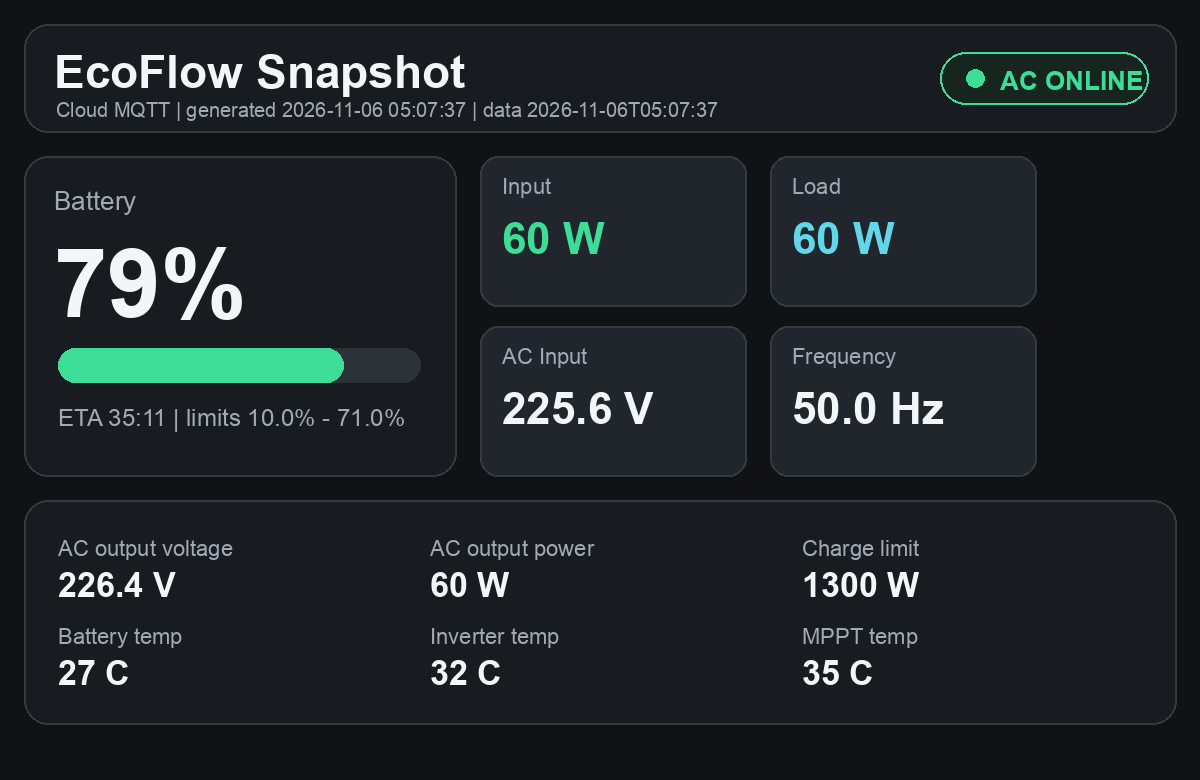
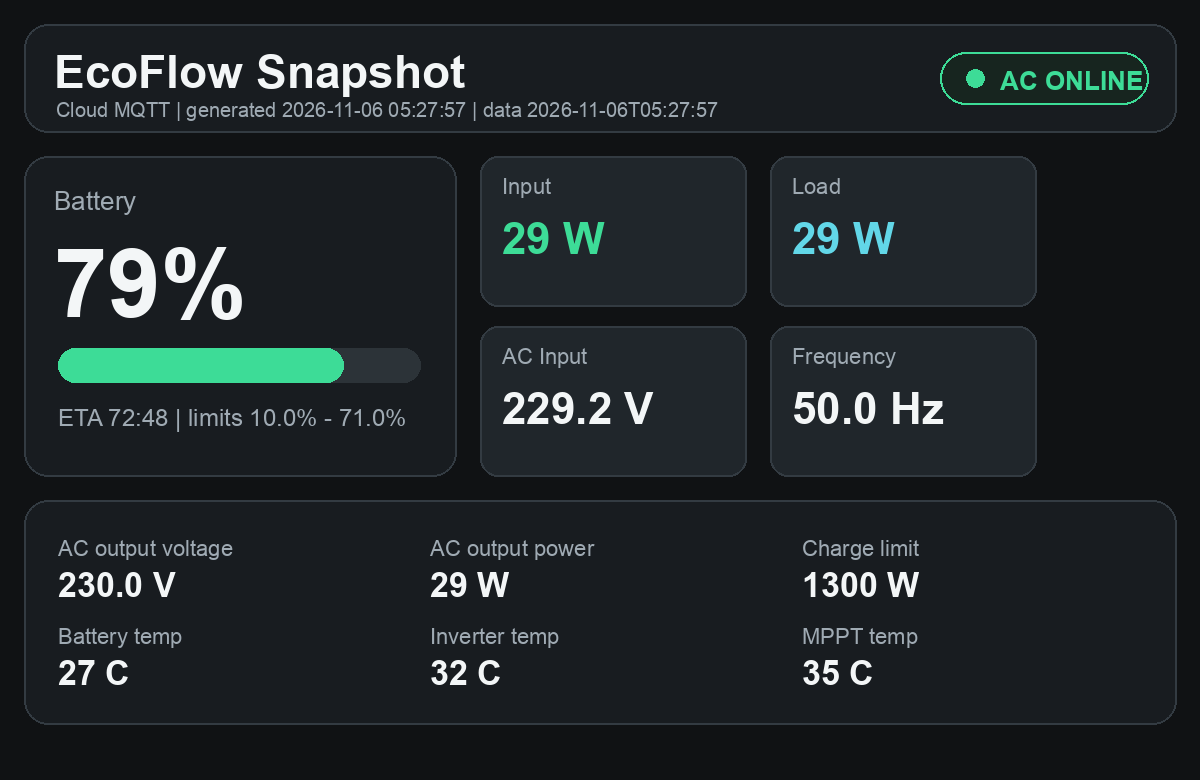
Update EcoFlow dashboard 2026-11-06 05:27:57

diff --git a/index.html b/index.html
@@ -177,7 +177,7 @@
   <header>
     <div>
       <h1>EcoFlow Snapshot</h1>
-      <div class="sub">Cloud MQTT · generated 2026-11-06T05:07:37 · data 2026-11-06T05:07:37</div>
+      <div class="sub">Cloud MQTT · generated 2026-11-06T05:27:57 · data 2026-11-06T05:27:57</div>
     </div>
     <div class="status online"><span class="dot"></span><span>AC online</span></div>
   </header>
@@ -189,20 +189,20 @@
       <h2>Battery</h2>
       <div class="value">79%</div>
       <div class="battery"><div class="fill"></div></div>
-      <div class="row"><span>ETA</span><span>35:11</span></div>
+      <div class="row"><span>ETA</span><span>72:48</span></div>
       <div class="row"><span>SOC limits</span><span>10.0% - 71.0%</span></div>
     </section>
     <section>
       <h2>AC</h2>
-      <div class="row"><span>Input voltage</span><span>225.6 V</span></div>
+      <div class="row"><span>Input voltage</span><span>229.2 V</span></div>
       <div class="row"><span>Input frequency</span><span>50.0 Hz</span></div>
-      <div class="row"><span>Output voltage</span><span>226.4 V</span></div>
+      <div class="row"><span>Output voltage</span><span>230.0 V</span></div>
     </section>
   </div>
 
   <div class="cards">
-    <div class="card"><span class="label">Input</span><span class="value">60 W</span></div>
-    <div class="card"><span class="label">Load</span><span class="value">60 W</span></div>
+    <div class="card"><span class="label">Input</span><span class="value">29 W</span></div>
+    <div class="card"><span class="label">Load</span><span class="value">29 W</span></div>
     <div class="card"><span class="label">Battery temp</span><span class="value">27°C</span></div>
     <div class="card"><span class="label">Inverter temp</span><span class="value">32°C</span></div>
   </div>
@@ -217,7 +217,7 @@
         <div class="daily-item"><span class="label">Зарядний ліміт</span><strong>1300 W</strong><small>пік входу 1347 W · 104% ліміту</small></div>
         <div class="daily-item"><span class="label">Заряджання</span><strong>4 хв</strong><small>останнє 05.11 12:00</small></div>
         <div class="daily-item"><span class="label">Розряджання</span><strong>0 сек</strong><small>--</small></div>
-        <div class="daily-item"><span class="label">Енергія вхід / вихід</span><strong>268 Wh / 178 Wh</strong><small>оцінка за sample-ами</small></div>
+        <div class="daily-item"><span class="label">Енергія вхід / вихід</span><strong>271 Wh / 181 Wh</strong><small>оцінка за sample-ами</small></div>
         <div class="daily-item"><span class="label">Частота min / max</span><strong>50.0 Hz / 50.0 Hz</strong><small>05.11 05:52 / 05.11 05:52</small></div>
       </div>
     </section>
@@ -249,24 +249,24 @@
   &quot;ok&quot;: true,
   &quot;source&quot;: &quot;Cloud MQTT&quot;,
   &quot;device&quot;: &quot;DELTA Pro&quot;,
-  &quot;timestamp&quot;: &quot;2026-11-06T05:07:37&quot;,
+  &quot;timestamp&quot;: &quot;2026-11-06T05:27:57&quot;,
   &quot;grid&quot;: true,
   &quot;battery&quot;: {
     &quot;soc&quot;: 79,
     &quot;min&quot;: 10.0,
     &quot;max&quot;: 71.0,
-    &quot;eta&quot;: &quot;35:11&quot;
+    &quot;eta&quot;: &quot;72:48&quot;
   },
   &quot;power&quot;: {
-    &quot;in&quot;: 60,
-    &quot;out&quot;: 60,
-    &quot;acOut&quot;: 60,
+    &quot;in&quot;: 29,
+    &quot;out&quot;: 29,
+    &quot;acOut&quot;: 29,
     &quot;chargeLimit&quot;: 1300
   },
   &quot;ac&quot;: {
-    &quot;inputVoltage&quot;: 225.608,
+    &quot;inputVoltage&quot;: 229.226,
     &quot;inputFreq&quot;: 50.0,
-    &quot;outputVoltage&quot;: 226.426
+    &quot;outputVoltage&quot;: 230.042
   },
   &quot;temps&quot;: {
     &quot;battery&quot;: 27,
@@ -391,16 +391,16 @@
   ],
   &quot;telemetry&quot;: {
     &quot;window&quot;: &quot;24h&quot;,
-    &quot;sample_count&quot;: 96,
+    &quot;sample_count&quot;: 97,
     &quot;from&quot;: &quot;2026-11-05T05:52:44&quot;,
-    &quot;to&quot;: &quot;2026-11-06T05:07:37&quot;,
+    &quot;to&quot;: &quot;2026-11-06T05:27:57&quot;,
     &quot;latest&quot;: {
       &quot;mode&quot;: &quot;idle&quot;,
       &quot;grid&quot;: true,
       &quot;soc&quot;: 79.0,
-      &quot;ac_v&quot;: 225.608,
-      &quot;in_w&quot;: 60.0,
-      &quot;out_w&quot;: 60.0,
+      &quot;ac_v&quot;: 229.226,
+      &quot;in_w&quot;: 29.0,
+      &quot;out_w&quot;: 29.0,
       &quot;charge_limit_w&quot;: 1300.0
     },
     &quot;voltage&quot;: {
@@ -446,16 +446,16 @@
       },
       &quot;charge_limit_w&quot;: 1300.0,
       &quot;max_input_pct_of_current_limit&quot;: 104,
-      &quot;input_wh_est&quot;: 268.2,
-      &quot;load_wh_est&quot;: 178.0
+      &quot;input_wh_est&quot;: 271.2,
+      &quot;load_wh_est&quot;: 181.0
     },
     &quot;modes&quot;: {
       &quot;charging_sec&quot;: 250,
       &quot;discharging_sec&quot;: 0,
-      &quot;idle_sec&quot;: 10405,
+      &quot;idle_sec&quot;: 10585,
       &quot;charging&quot;: &quot;4 хв&quot;,
       &quot;discharging&quot;: &quot;0 сек&quot;,
-      &quot;idle&quot;: &quot;2 год 53 хв&quot;,
+      &quot;idle&quot;: &quot;2 год 56 хв&quot;,
       &quot;last_charging&quot;: {
         &quot;ts&quot;: &quot;2026-11-05T12:00:12&quot;,
         &quot;grid&quot;: true,
